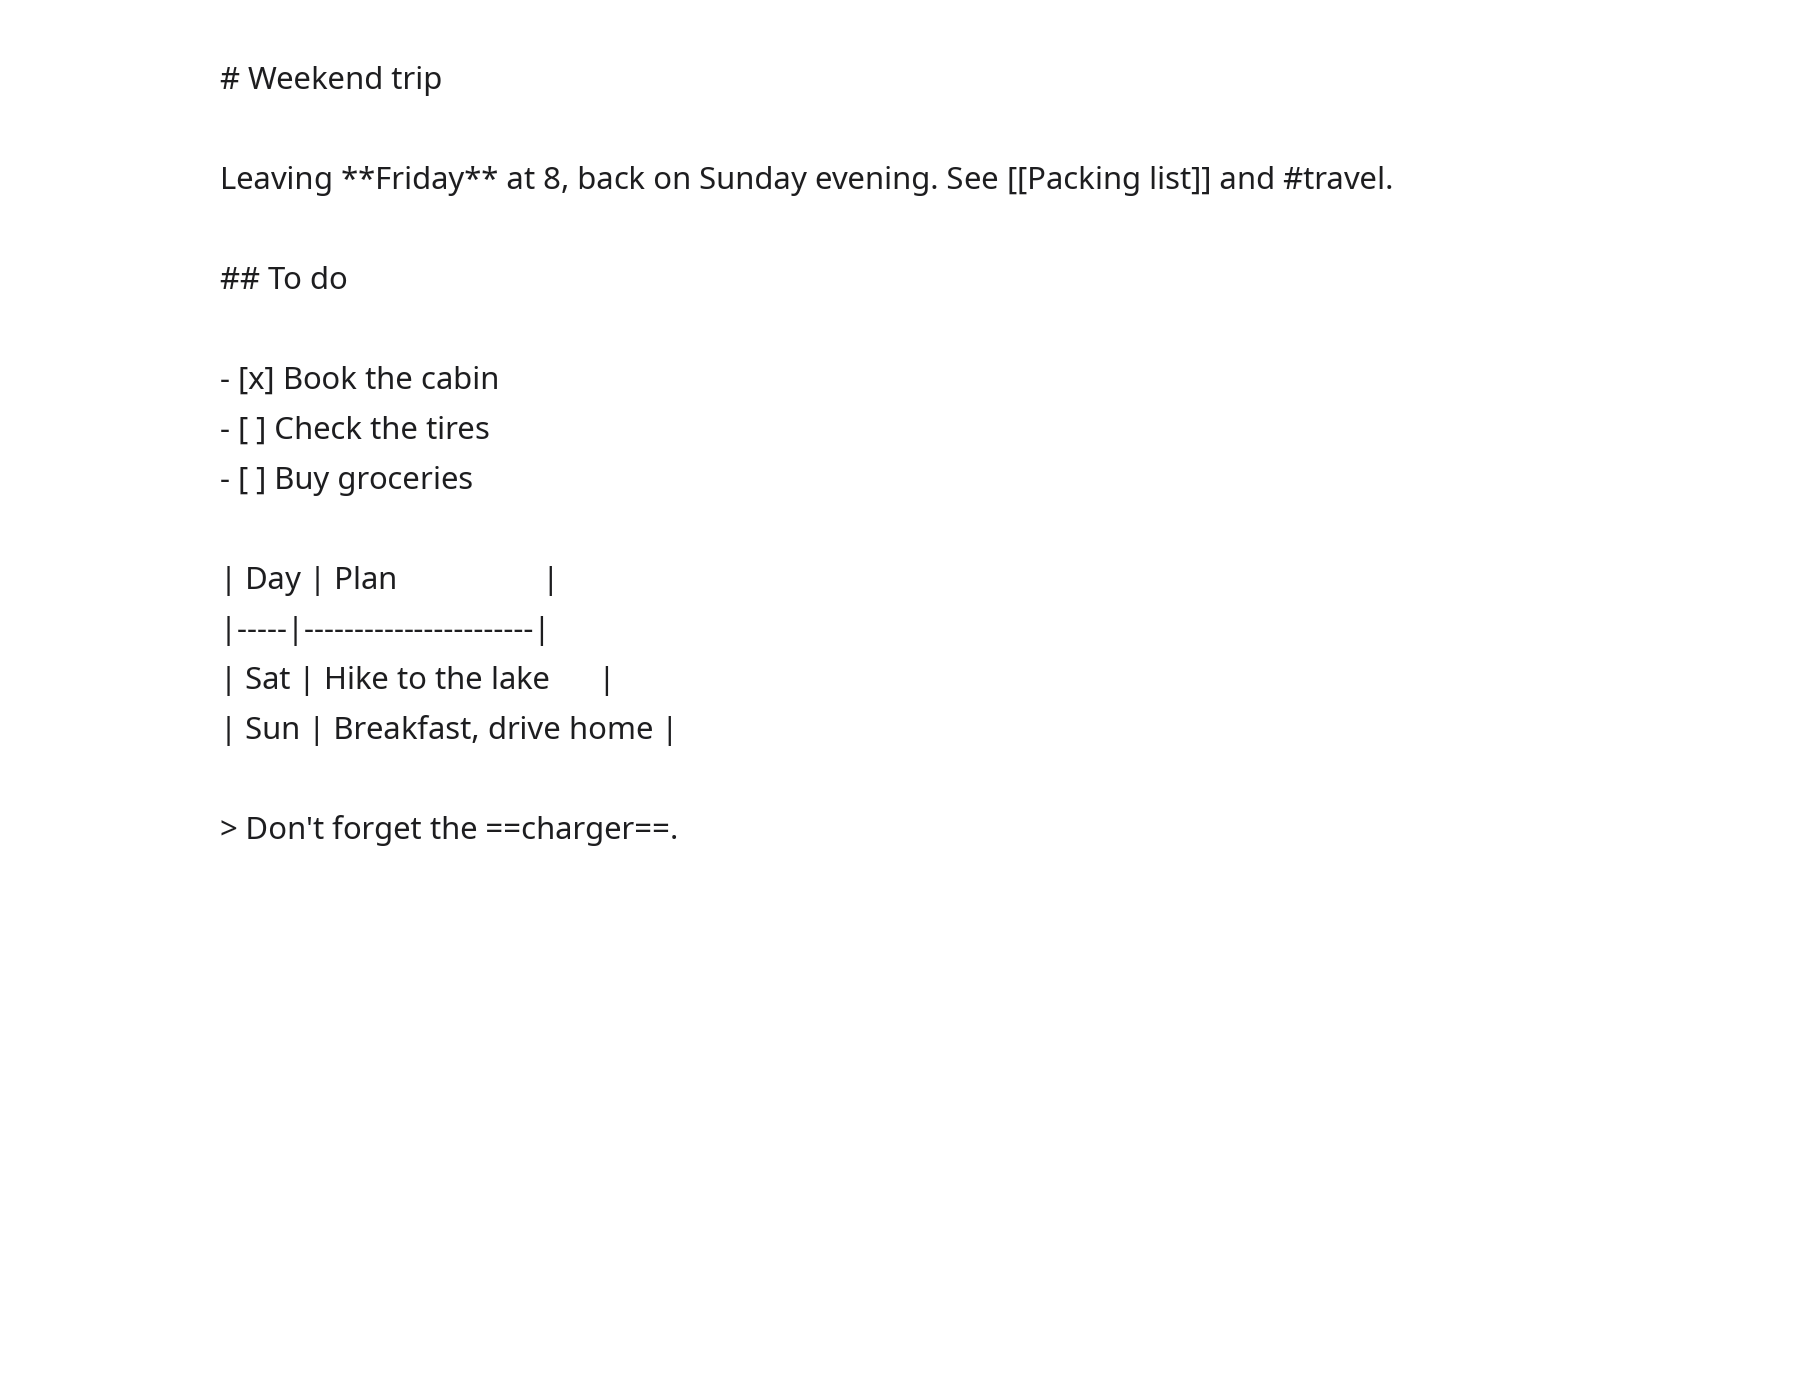
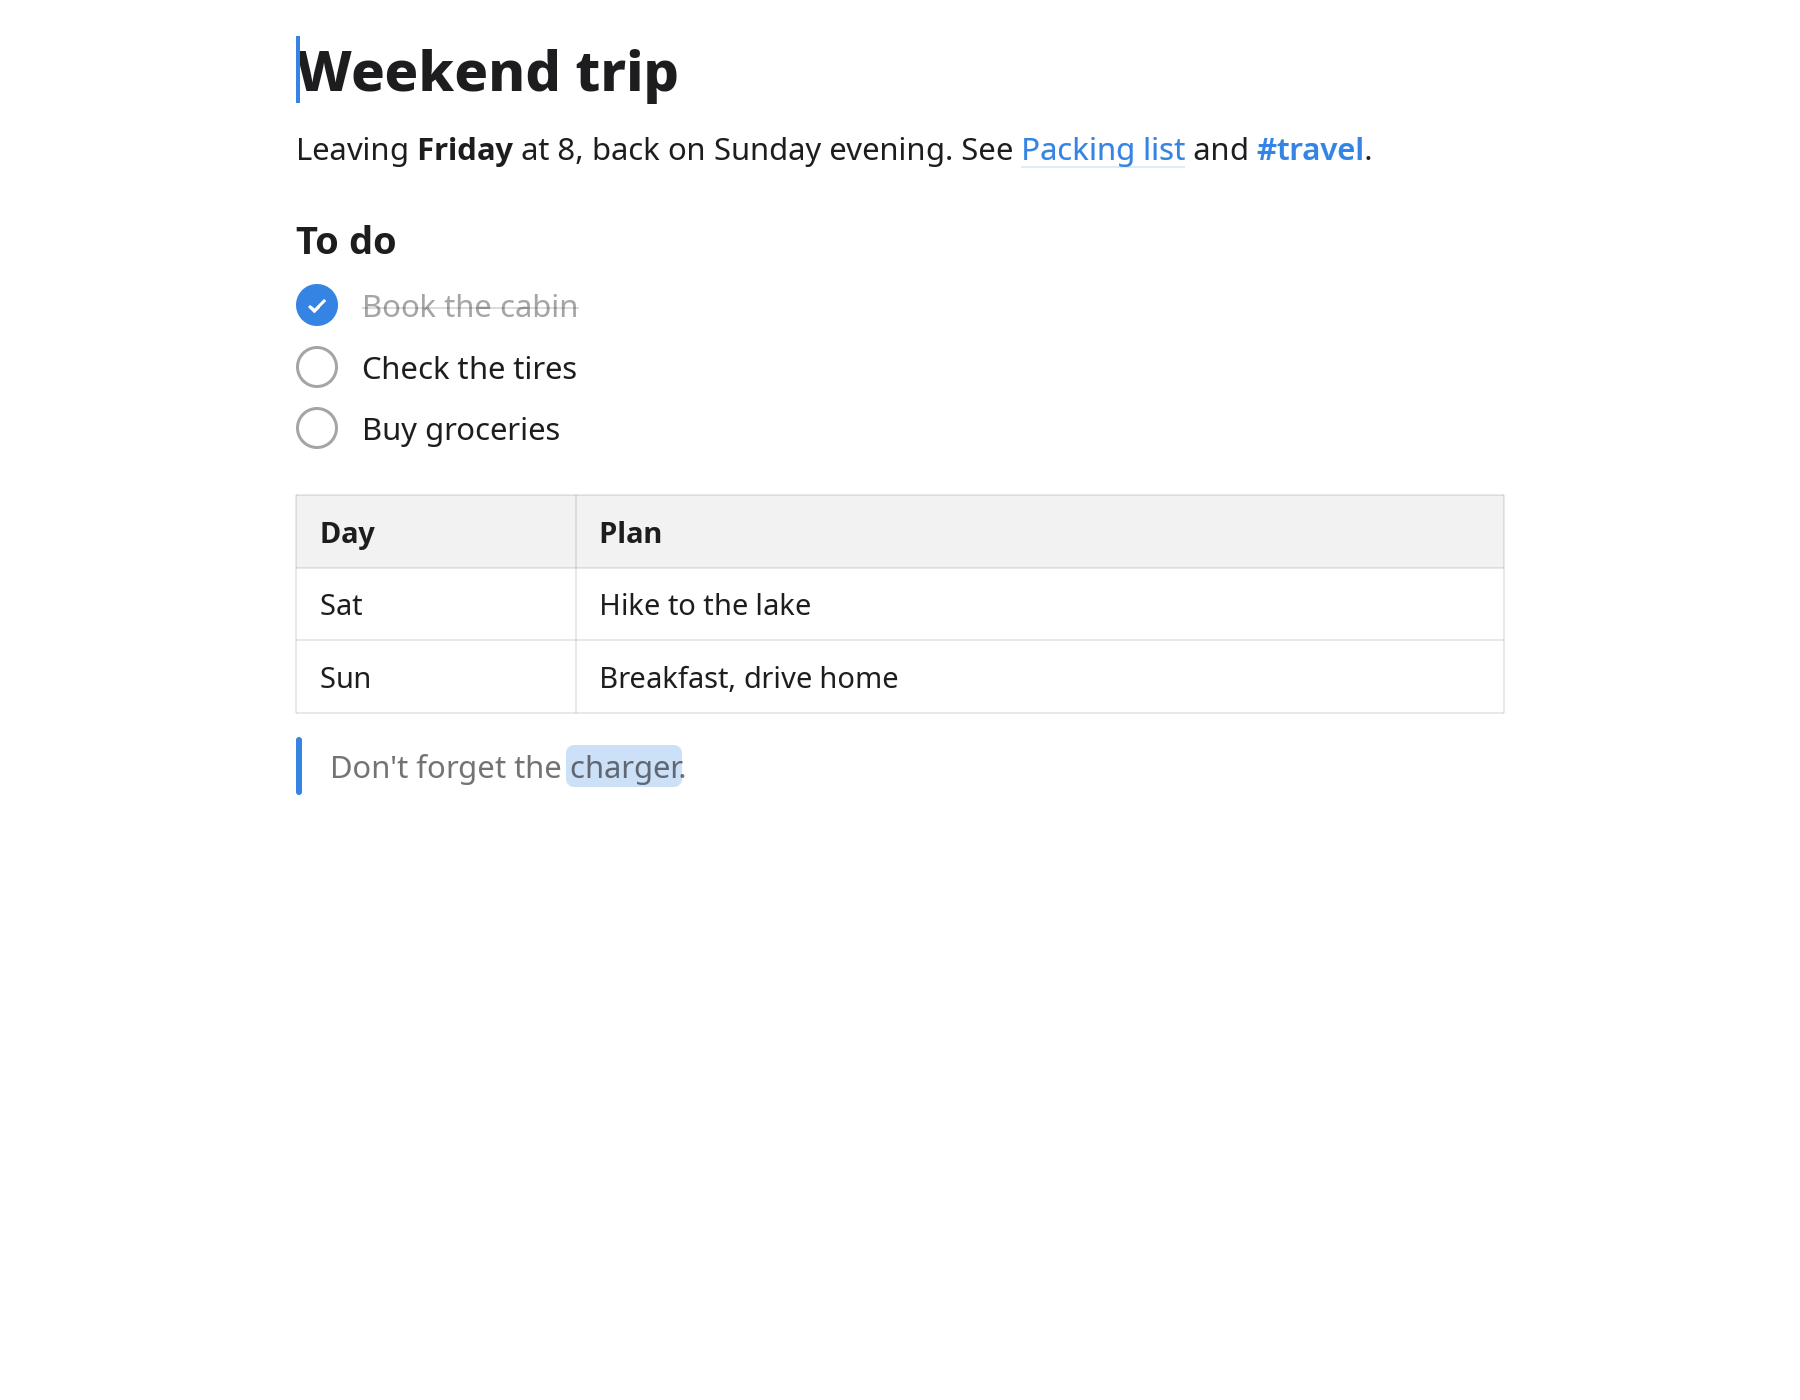
chore(release): 0.0.3 with WYSIWYG editing

Changed region(s): [[0.1244, 0.0307, 0.7778, 0.6143], [0.3422, 0.43, 0.4978, 0.4914], [0.3111, 0.3686, 0.3733, 0.3993]]

diff --git a/docs/handoff.md b/docs/handoff.md
@@ -15,22 +15,13 @@ Written 2026-11-17 so that work can resume without the session's context. Plan: 
 
 ## Running
 
-- A sub-agent is fixing the E2 bug-review findings on `phase/e2-editing` (commits as `fix(edit): …`).
-  Items, each with a regression test in `src/edit/tests/`:
-  1. blocking: pending marks (Ctrl+E at a caret) only apply to the first typed character
-  2. Tab with a selection in a code block deletes the selection
-  3. copying part of one heading/list item keeps the block kind
-  4. multi-line plain-text paste into a list item breaks the list
-  5. select-all misses rules/images/tables at the document edges; cut leaves an empty table
-  6. IME preedit states become undo steps
-  7. Enter on an empty item in the middle of a list does not round-trip (tight list turns loose)
-  8. inline HTML is escaped after copy/paste
-  9. leading/trailing spaces are written as `&#32;` (also on the clipboard)
-  10. `InsertRule` leaves an empty trailing paragraph that changes the saved file
-- Check `git log origin/main..phase/e2-editing` for which of these landed; anything missing is still open.
+Nothing. The ten E2 bug-review findings are fixed on `phase/e2-editing` (commits `fix(edit): …`,
+`fix(markdown): …`), each with a regression test; the gate checks were re-run green afterwards and the
+E2 PR is open against `main`, tagged `v0.0.3`.
 
 ## Next
 
+0. Steps 1 and 2 are done; continue at 3 once the E2 PR is merged (rebase E3 onto `main` then).
 1. Verify the fixes: `cargo fmt --all --check`, `cargo clippy --all-targets --all-features -- -D warnings`,
    `cargo test --all-features`, `RUSTDOCFLAGS="-D warnings" cargo doc --no-deps --all-features`, `cargo deny check`,
    `scripts/screenshot.sh` (look at the PNGs).
@@ -44,6 +35,9 @@ Written 2026-11-17 so that work can resume without the session's context. Plan: 
 4. E4: criterion benchmarks, `docs/performance.md`, README with GIF, docs, reviews, `docs/release-checklist.md`, tag `v0.1.0`.
 
 ## Open, known and accepted for now
+
+- An empty paragraph between blocks is saved as `&#32;` (Markdown has no empty paragraph). Open question for the
+  user: keep, or drop empty paragraphs on save.
 
 - Enter in a quote starts a second quote instead of a new paragraph in the same quote (plan does not specify).
 - An edited paragraph that was hard-wrapped in the source is written on one line.

diff --git a/docs/STATUS.md b/docs/STATUS.md
@@ -13,18 +13,18 @@ Read by other sessions. Keep terse.
 - `v0.0.2` (branch `phase/e1-api-model`): same API, real lossless parser and serializer, `WikiLink`/`Tag`/`Highlight`
   extensions work. Prefer this tag if you use `Document` headless (outline, open tasks, tags).
 
+- `v0.0.3` (branch `phase/e2-editing`): WYSIWYG editing. Same API plus `gpui_markdown_editor::init(cx)` (key
+  bindings; call after `gpui_component::init`, `MarkdownEditor::new` calls it if forgotten). Keyboard, mouse, IME,
+  clipboard (Markdown text), input rules, shortcuts, undo/redo. `is_dirty` follows the undo history. Tables render
+  read-only, images are placeholders, `FoldHeading`/`OpenFind` do nothing yet. See `CHANGELOG.md`.
+
 ## Done
 
 - E0: repo, toolchain, CI, versions pinned, assumptions verified (`docs/verified.md`).
 - E1: public API skeleton, document model, lossless parser and serializer, round-trip corpus (1354 spec examples and 33 notes byte-identical), offscreen screenshot harness (`scripts/screenshot.sh`).
 
-## In progress
-
-- E2 (branch `phase/e2-editing`, not tagged): WYSIWYG editing works. `MarkdownEditor` owns the editing core and
-  renders the document; keyboard, mouse, IME, clipboard (Markdown text), input rules, shortcuts, undo/redo.
-  New API: `gpui_markdown_editor::init(cx)` (key bindings; call after `gpui_component::init`). See "Status" in the
-  crate docs and `CHANGELOG.md`. Still open for the E2 gate: manual IME check on a desktop (dead keys, Compose,
-  ibus-pinyin).
+- E2: editing core, rendering element, keyboard, mouse, IME, clipboard, input rules, shortcuts, interaction tests.
+  Not done: manual IME check on a desktop (dead keys, Compose, ibus-pinyin); simulated only.
 
 ## Open
 

diff --git a/CHANGELOG.md b/CHANGELOG.md
@@ -3,7 +3,7 @@
 All notable changes are documented here, following [Keep a Changelog](https://keepachangelog.com/en/1.1.0/).
 API changes between tags are listed here because downstream (Sheaf) pins tags.
 
-## [Unreleased]
+## [0.0.3]
 
 The editor edits the rendered document (WYSIWYG) instead of the Markdown
 source.
@@ -20,6 +20,9 @@ API changes:
 - Ctrl+click (Cmd+click on macOS) on a link, wiki link or tag emits
   `LinkClicked`, `WikiLinkClicked` or `TagClicked`; a plain click places the
   caret.
+- `Command::InsertRule` no longer adds a blank line after the rule to the
+  Markdown: an empty paragraph at the start or end of the document is not
+  written.
 - Removed the hidden preview switches `__set_rich_preview` and
   `__set_rich_selection` (`__set_selection` stays hidden, for screenshots).
 
@@ -44,6 +47,16 @@ What works:
   `scroll_to` scrolls.
 - Fixed: Ctrl+Alt+2 on a level-1 heading made it a paragraph instead of a
   level-2 heading.
+
+Markdown output:
+
+- An empty paragraph between two blocks is written as `&#32;` on its own
+  line and read back as an empty paragraph, because Markdown has no empty
+  paragraph. Files show this after pressing Enter twice between blocks.
+- Bold, italic and strike leave whitespace at the edges of the selection
+  unmarked, so the result reads back with the same marks.
+- Copying part of one block copies inline Markdown without the block marker;
+  spaces at the edges of copied text stay plain.
 
 ## [0.0.2]
 

diff --git a/README.md b/README.md
@@ -12,7 +12,7 @@ Early development. The API is unstable until 0.1. Changes between tags are liste
 
 ```toml
 [dependencies]
-gpui-markdown-editor = { git = "https://github.com/taulit/gpui-markdown-editor", tag = "v0.0.1-api" }
+gpui-markdown-editor = { git = "https://github.com/taulit/gpui-markdown-editor", tag = "v0.0.3" }
 ```
 
 This crate pins `gpui-pre =0.3.12` and `gpui-component =0.10.0`. Host applications must use the same versions.
